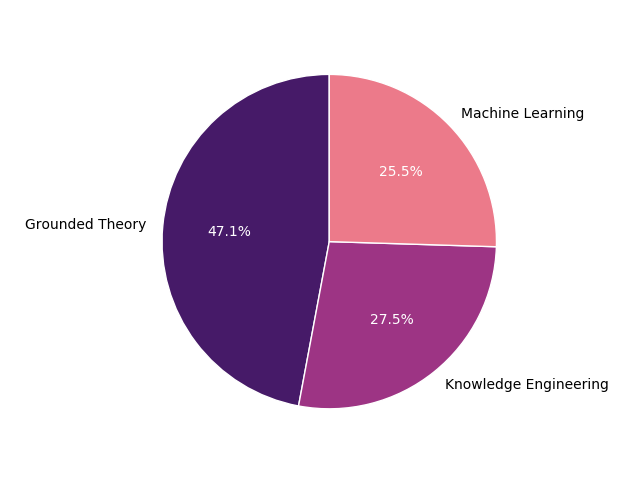
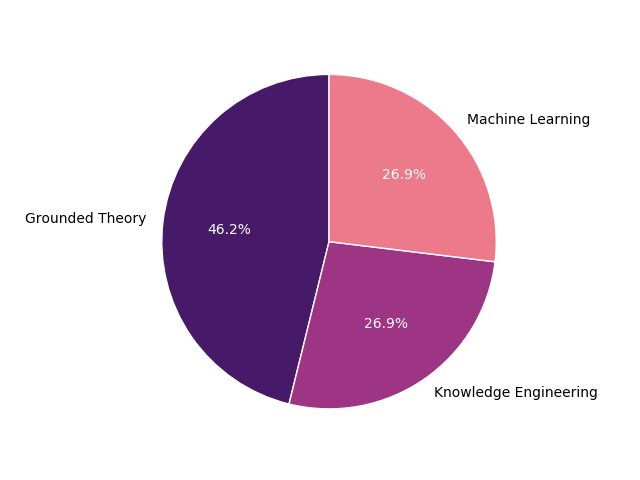
adding new AES e-brief from Dave Moffat

diff --git a/README.md b/README.md
@@ -26,6 +26,7 @@ If related code or additional resources are available for the publication a link
 ## Level
 |Year|Title|Authors|Approach|Resources|
 |---|---|---|---|---|
+|2019|[Machine Learning Multitrack Gain Mixing of Drums](http://www.aes.org/e-lib/browse.cfm?elib=20550)|D. Moffat and M. B. Sandler|ML|No|
 |2019|[Background Ducking to Produce Esthetically Pleasing Audio for TV with Clear Speech](http://www.aes.org/e-lib/browse.cfm?elib=20308)|M. Torcoli, A. Freke-Morin, J. Paulus, C. Simon, B. Shirley|KE|No|
 |2019|[Automatic Mixing Level Balancing Enhanced through Source Interference Identification](http://www.aes.org/e-lib/browse.cfm?elib=20355)|D. Moffat and M. B. Sandler|GT|No|
 |2018|[Real-time multi-track mixing for live performance](https://zenodo.org/record/2550903)|Joaquín Jiménez-Sauma|GT|[Yes](https://github.com/jjsauma/msmc)|
